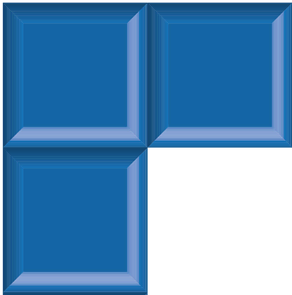
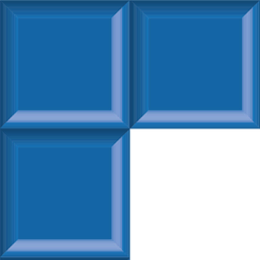
테트리스 배치

Changed region(s): [[0.0, 0.0, 1.0, 1.0]]

diff --git a/assets/css/tetris.css b/assets/css/tetris.css
@@ -1,0 +1,126 @@
+.display {
+    position: relative;
+}
+
+.tetris {
+    position: absolute;
+    width: 6.7cm;
+    height: 12.2cm;
+    overflow: auto;
+    bottom: calc(100% - 13cm);
+    /* z-index: -1; */
+}
+
+.tetris img {
+    position: absolute;
+}
+
+.tetris_block_20, .tetris_block_17, .tetris_block_19, 
+.tetris_block_15, .tetris_block_13, .tetris_block_11, 
+.tetris_block_10, .tetris_block_7, .tetris_block_6, 
+.tetris_block_5, .tetris_block_3, .tetris_block_2 {
+    width: calc(100% / 3);
+}
+
+.tetris_block_16, .tetris_block_12, .tetris_block_18, 
+.tetris_block_14, .tetris_block_9 {
+    width: calc(100% / 6);
+}
+
+.tetris_block_11, .tetris_block_8, .tetris_block_4, .tetris_block_1 {
+    width: calc(100% / 2);
+}
+
+.tetris_block_20 {
+    top:0;
+    left:0;
+}
+
+.tetris_block_19 {
+    right: 0;
+}
+
+.tetris_block_18 {
+    top: calc(100% / 11);
+    right: calc(100% / 6);
+}
+
+.tetris_block_17 {
+    left: calc(100% / 6);
+}
+
+.tetris_block_16 {
+    left: calc(100% / 2);
+}
+
+.tetris_block_15 {
+    top: calc(100% / 5.5);
+    left: calc(100% / 6);
+}
+
+.tetris_block_14 {
+    top: calc(100% / (11 / 3));
+    left: calc(100% / 2);
+}
+
+.tetris_block_13 {
+    top: calc(100% / 5.5);
+    right: 0;
+}
+
+.tetris_block_12 {
+    top: calc(100% / 5.5);
+    left: 0;
+}
+
+.tetris_block_11 {
+    top: calc(100% / (11 / 4));
+    left: calc(100% / 6);
+}
+
+.tetris_block_10 {
+    top: calc(100% / (11 / 4));
+    right: 0;
+}
+
+.tetris_block_9 {
+    top: calc(100% / (11 / 6));
+    right: 0;
+}
+
+.tetris_block_8 {
+    top: calc(100% / (11 / 6));
+    right: calc(100% / 6);
+}
+
+.tetris_block_7 {
+    top: calc(100% / (11 / 5));
+}
+
+.tetris_block_6 {
+    bottom: calc(100% / (11 / 2));
+    left: calc(100% / 3);
+}
+
+.tetris_block_5 {
+    bottom: calc(100% / 11);
+}
+
+.tetris_block_4 {
+    right: 0;
+    bottom: calc(100% / 11);
+}
+
+.tetris_block_3 {
+    bottom: 0;
+    left: calc(100% / 3);
+}
+
+.tetris_block_2 {
+    bottom: 0;
+}
+
+.tetris_block_1 {
+    bottom: 0;
+    right: 0;
+}

diff --git a/assets/script/question.js b/assets/script/question.js
@@ -26,8 +26,6 @@
         17: {"title": "문제 18번", "mbti_type": "TF", "A": "T", "B": "F"},
         18: {"title": "문제 19번", "mbti_type": "JP", "A": "J", "B": "P"},
         19: {"title": "문제 20번", "mbti_type": "EI", "A": "E", "B": "I"},
-
-
     }
     
     const get = (target) => {
@@ -45,6 +43,8 @@
     const $resultPage = get('.test_result')
     const $answer1 = get('.answer1')
     const $answer2 = get('.answer2')
+
+    const $tetris = get('.tetris')
 
 
     let mbti_value = "N"
@@ -137,8 +137,19 @@
 
     }
 
-    const init = () => {
+    const buildTetris = () => {
+        // 테트리스 블록 추가하기
+        for (let i = 20; i >= 1; i--) {
+            const tetrisBlock = document.createElement('img');
+            tetrisBlock.src = `../assets/images/tetris/${i}.png`
+            tetrisBlock.className = `tetris_block_${i}`;
+            $tetris.appendChild(tetrisBlock);
+        }
+    }
 
+    const init = () => {
+        buildTetris()
+        
         answer1.addEventListener('click', () => {
             clickA()
         })
@@ -151,6 +162,7 @@
             $prevBtn.disabled = false
             mbti_list[num] = mbti_value
             console.log(mbti_list)
+            
             
             if ($answer1.classList["value"] == "answer1 click") {
                 $answer1.classList.toggle('click')
@@ -170,7 +182,6 @@
                 
                 $nextBtn.disabled = true
             }
-            
         })
 
         $prevBtn.addEventListener('click', () => {
@@ -192,5 +203,6 @@
         
     }
     init()
+    console.log(Object.keys(q))
   })()
   

diff --git a/docs/main.html b/docs/main.html
@@ -8,6 +8,7 @@
     <link rel="stylesheet" href="../assets/css/default_setting.css">
     <link rel="stylesheet" href="../assets/css/start.css">
     <link rel="stylesheet" href="../assets/css/question.css">
+    <link rel="stylesheet" href="../assets/css/tetris.css">
     <link rel="stylesheet" href="../assets/css/test_result.css">
     <!-- <link rel="stylesheet" href="../assets/css/test_result.css"> -->
 </head>
@@ -63,7 +64,7 @@
                     </div>
                 </div>
 
-                <!-- <div class="tetris"></div> -->
+                <div class="tetris"></div>
 
                 <div class="test_result">
                     <div class="test_result_header">· 검사결과 ·</div>

diff --git a/assets/css/question.css b/assets/css/question.css
@@ -1,16 +1,3 @@
-.display {
-    position: relative;
-}
-
-.tetris {
-    position: absolute;
-    width: calc(100% - 28px);
-    height: calc(100% - 28px);
-    overflow: auto;
-    top: 14px;
-    left: 14px;
-}
-
 .question_page {
     display: none;
 }

diff --git a/assets/script/question_tetris.js b/assets/script/question_tetris.js
@@ -3,5 +3,6 @@
 
     const get = (target) => {return document.querySelector(target)}
 
+    const $tetris = get('.tetris')
     
 })()

diff --git a/assets/script/main.js b/assets/script/main.js
@@ -78,6 +78,8 @@
             gameStart()
         })
     }
-    init()
+    //init()
+    gameReady()
+    gameStart()
   })()
   
